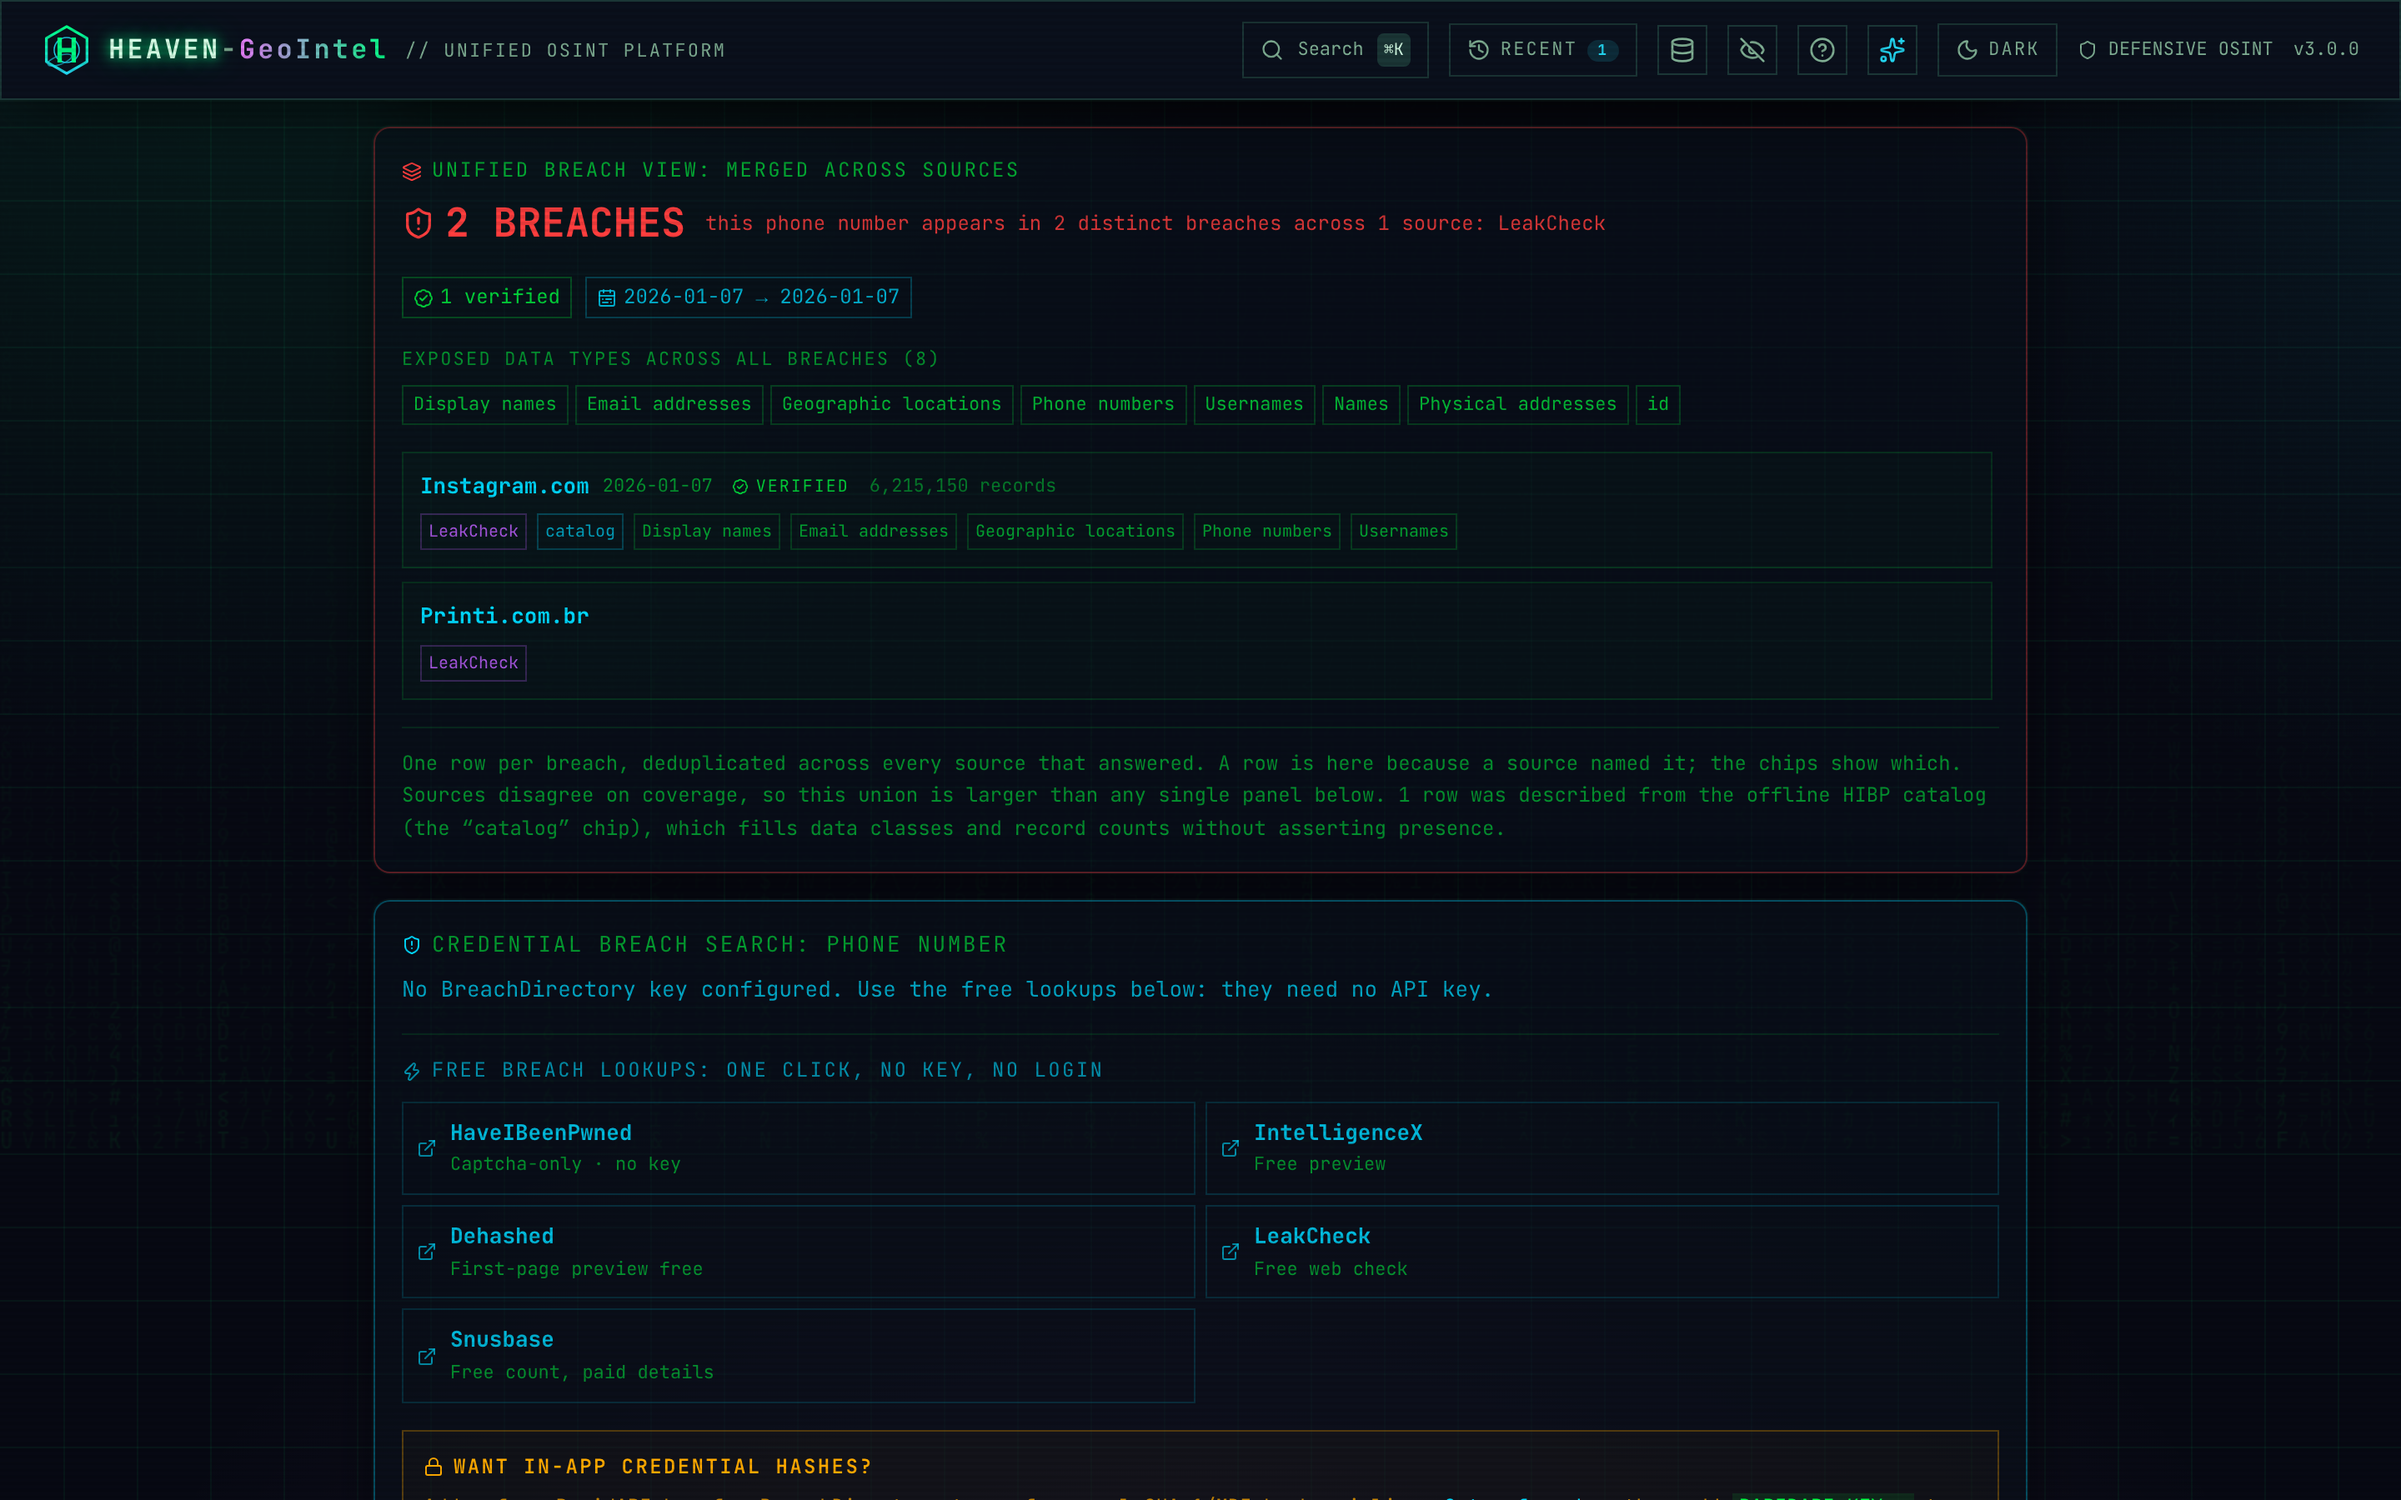
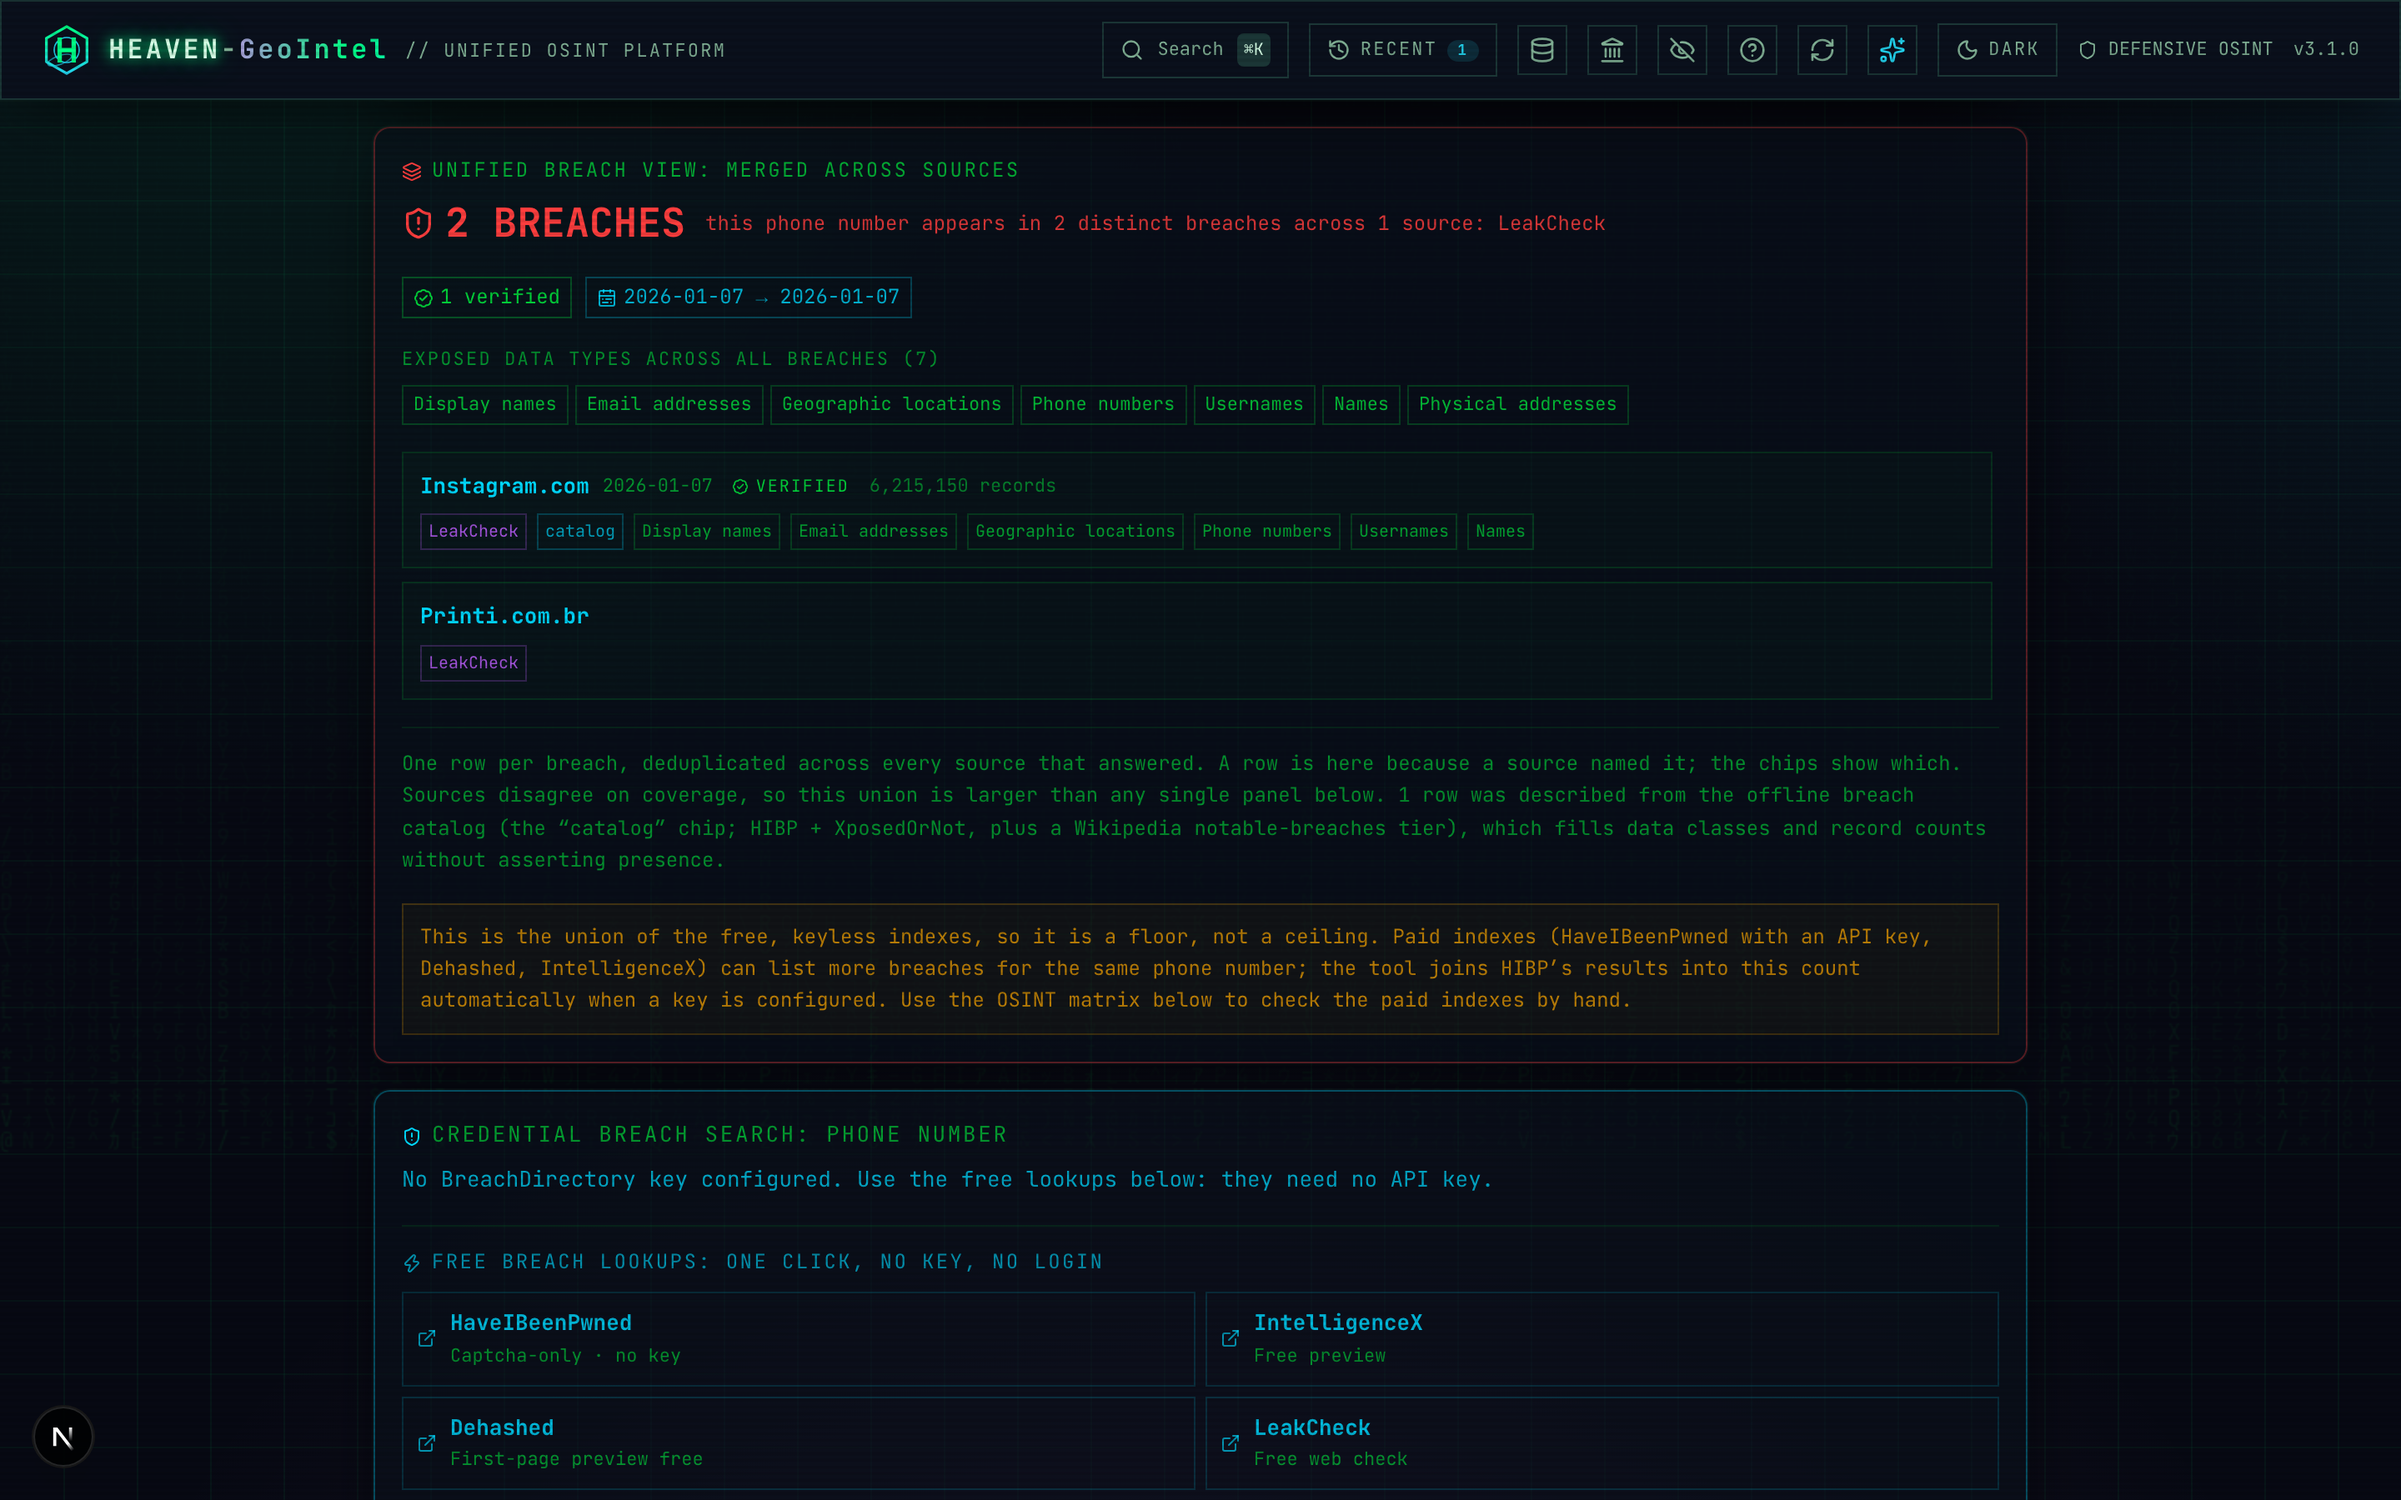
chore: update version to 3.1.0 and modify related documentation
- Updated banner and startup script to reflect version 3.1.0.
- Adjusted comments in capture-screenshots.mjs to include new AI Analysis view.
- Increased PBKDF2 iterations to 600,000 in cryptoLab.ts for enhanced security.
- Updated tests to reflect changes in PBKDF2 iterations.
- Added new screenshot for AI Analysis view.

diff --git a/src/lib/analysis/cryptoLab.ts b/src/lib/analysis/cryptoLab.ts
@@ -191,7 +191,8 @@ async function hmacHex(hash: "SHA-256" | "SHA-512", key: string, text: string): 
 // AES-256-GCM with a PBKDF2-SHA256 passphrase. A fresh 16-byte salt and 12-byte
 // IV each time, packed salt||iv||ciphertext and Base64'd. Iterations are fixed,
 // so the token is self-describing enough to decrypt with only the passphrase.
-const PBKDF2_ITERS = 210000;
+// 600k is the OWASP 2023 floor for PBKDF2-HMAC-SHA256.
+const PBKDF2_ITERS = 600000;
 
 async function deriveAesKey(passphrase: string, salt: Bytes, usage: "encrypt" | "decrypt"): Promise<CryptoKey> {
   const base = await crypto.subtle.importKey("raw", utf8Encode(passphrase), "PBKDF2", false, ["deriveKey"]);
@@ -438,7 +439,7 @@ const IMPLS: Impl[] = [
   // ENCRYPT — reversible, keyed, real
   { meta: { id: "aes-gcm", label: "AES-256-GCM", category: "encrypt", key: "required", keyLabel: "Passphrase", blurb: "Authenticated AES with a PBKDF2 passphrase." },
     forward: (t, k) => aesGcmEncrypt(k, t), inverse: (t, k) => aesGcmDecrypt(k, t),
-    note: "AES-256-GCM · PBKDF2-SHA256 (210k) · authenticated. A wrong passphrase fails; it never returns garbage." },
+    note: "AES-256-GCM · PBKDF2-SHA256 (600k) · authenticated. A wrong passphrase fails; it never returns garbage." },
 ];
 
 const IMPL_BY_ID = new Map(IMPLS.map((impl) => [impl.meta.id, impl]));

diff --git a/tests/cryptoWorkbench.test.tsx b/tests/cryptoWorkbench.test.tsx
@@ -93,7 +93,7 @@ describe("<CryptoWorkbench> keyed algorithms", () => {
     type("Input text", "top secret paragraph");
     type(/Passphrase/, "pw");
     await clickRun();
-    // PBKDF2 (210k iterations) settles after the click, so poll for the result.
+    // PBKDF2 (600k iterations) settles after the click, so poll for the result.
     // Match the note text specifically (the algorithm button also says AES-256-GCM).
     await waitFor(() => expect(screen.getByText(/PBKDF2-SHA256/)).toBeTruthy());
     const token = (screen.getByLabelText("Output") as HTMLTextAreaElement).value;

diff --git a/src/lib/version.ts b/src/lib/version.ts
@@ -26,7 +26,7 @@
 // SECURITY.md, where "3.0.x" is the claim being made.
 
 /** Full semver, as published. Matches `version` in package.json. */
-export const APP_VERSION = "3.0.0";
+export const APP_VERSION = "3.1.0";
 
 /**
  * `major.minor` — the release *branch*, not a build.

diff --git a/README.md b/README.md
@@ -1,3 +1,5 @@
+# 🛰 HEAVEN-GeoIntel · Unified OSINT Platform
+
 <p align="center">
   <picture>
     <source media="(prefers-color-scheme: light)" srcset="public/brand/poster-light.svg"/>
@@ -19,7 +21,7 @@
 <div align="center">
 
   <p>
-    <img src="https://img.shields.io/badge/Version-3.0.0-00FF85?style=for-the-badge&logo=semanticrelease&logoColor=black" alt="Version"/>
+    <img src="https://img.shields.io/badge/Version-3.1.0-00FF85?style=for-the-badge&logo=semanticrelease&logoColor=black" alt="Version"/>
     <img src="https://img.shields.io/badge/Node.js-20.9+-FFAA00?style=for-the-badge&logo=nodedotjs&logoColor=black" alt="Node.js"/>
     <img src="https://img.shields.io/badge/Framework-Next.js_16-BF5FFF?style=for-the-badge&logo=nextdotjs&logoColor=white" alt="Next.js"/>
     <img src="https://img.shields.io/badge/Language-TypeScript-00D9D9?style=for-the-badge&logo=typescript&logoColor=black" alt="TypeScript"/>
@@ -43,8 +45,9 @@
   </p>
 
   <p>
-    <img src="https://img.shields.io/github/stars/nishu2402/HEAVEN-GeoIntel?style=social" alt="Stars"/>
-    <img src="https://img.shields.io/github/forks/nishu2402/HEAVEN-GeoIntel?style=social" alt="Forks"/>
+    <a href="https://github.com/nishu2402/HEAVEN-GeoIntel/stargazers"><img src="https://img.shields.io/github/stars/nishu2402/HEAVEN-GeoIntel?style=flat-square&logo=github&logoColor=black&color=00FF85&label=Star" alt="Stars"/></a>
+    <a href="https://github.com/nishu2402/HEAVEN-GeoIntel/network/members"><img src="https://img.shields.io/github/forks/nishu2402/HEAVEN-GeoIntel?style=flat-square&logo=git&logoColor=black&color=22D3EE&label=Fork" alt="Forks"/></a>
+    <a href="https://github.com/nishu2402/HEAVEN-GeoIntel/issues/new"><img src="https://img.shields.io/badge/Report_a_bug-open_an_issue-BF5FFF?style=flat-square&logo=github&logoColor=white" alt="Report a bug"/></a>
   </p>
 
 </div>
@@ -112,6 +115,12 @@
     <td width="50%" align="center" valign="top">
       <img src="./docs/screenshots/bulk-mode.png" alt="Bulk mode scoring a batch of phone numbers offline" width="100%"/>
       <br/><sub><b>Bulk mode.</b> Paste up to twenty-five numbers, score them offline in one pass, then export the table.</sub>
+    </td>
+  </tr>
+  <tr>
+    <td colspan="2" align="center" valign="top">
+      <img src="./docs/screenshots/ai-analysis.png" alt="AI Analysis panel: an explainable risk score broken into contributing factors and a narrative, with the optional local AI Analyst below it" width="72%"/>
+      <br/><sub><b>AI Analysis.</b> An explainable, grounded risk read-out for every finished lookup, with the score broken into the factors that produced it. Below it sits an optional, opt-in AI Analyst that turns the same evidence into a short brief and flags anything the model writes that the evidence did not support.</sub>
     </td>
   </tr>
 </table>
@@ -394,12 +403,12 @@ docker compose up -d
 open http://localhost:3000          # macOS (Linux: xdg-open, Windows: start)
 
 # Plain Docker (no compose)
-docker build -t heaven-geointel:3.0.0 .
-docker run --rm -p 127.0.0.1:3000:3000 heaven-geointel:3.0.0
+docker build -t heaven-geointel:3.1.0 .
+docker run --rm -p 127.0.0.1:3000:3000 heaven-geointel:3.1.0
 
 # …with API keys (omit --env-file entirely if you have no .env.local;
 # docker run fails on a missing env file, it does not skip it)
-docker run --rm -p 127.0.0.1:3000:3000 --env-file .env.local heaven-geointel:3.0.0
+docker run --rm -p 127.0.0.1:3000:3000 --env-file .env.local heaven-geointel:3.1.0
 ```
 
 <div align="center">
@@ -1157,7 +1166,7 @@ the same numbers as this page:
 │            Search It.  Enrich It.  Pivot It.  Report It.             │
 │                                                                      │
 │         7 identifiers · 11 modes · 20/29 sources need no key         │
-│            v3.0.0  ·  Lookup -> Enrich -> Pivot -> Report            │
+│            v3.1.0  ·  Lookup -> Enrich -> Pivot -> Report            │
 │                                                                      │
 │           Owned & Developed by  Nisarg Chasmawala (Shroff)           │
 ╰──────────────────────────────────────────────────────────────────────╯

diff --git a/CHANGELOG.md b/CHANGELOG.md
@@ -7,6 +7,8 @@ and this project adheres to [Semantic Versioning](https://semver.org/).
 
 ## [Unreleased]
 
+## [3.1.0] — 2026-09-08
+
 ### Security
 
 - **Hardened the file-metadata reader against hostile uploads.** The in-browser
@@ -224,9 +226,27 @@ and this project adheres to [Semantic Versioning](https://semver.org/).
   each label by lowercasing it and letting CSS re-capitalize the first letter,
   which is right for an ordinary word but turned the "IP" acronym into "Ip". Mode
   labels now render in their own proper case, so an acronym stays whole.
+- **The weekly outbound-link check reports real link rot again.** The checker
+  filled only one of the two username placeholders the source uses, so several
+  hundred live sites were probed with a literal `{account}` still in the URL and
+  came back looking dead. It now fills both placeholders and re-checks a failure
+  with a second request before flagging it, so the report shows links that have
+  actually stopped resolving instead of a datacenter being throttled on the first
+  try.
 
 ### Security
 
+- **The AI Analyst API key is no longer written to the browser.** The optional
+  cloud key you paste is held only in memory for the current tab. It is never
+  saved to `localStorage` or any other on-disk store, so the secret does not sit
+  at rest where another script, an extension, or the next person on a shared
+  machine could read it. It still travels only in the request you trigger, to
+  your own relay, which forwards it and keeps no copy.
+- **More code-scanning cleanup.** The exported HTML report now escapes the double
+  quote inside a link's `href`, so a value can never break out of the attribute.
+  An offline breach-catalog script shed a slow regular expression and a tag strip
+  that a single pass could defeat, and two test helpers were tightened, clearing
+  the remaining static-analysis findings.
 - **Markdown report escaping now escapes the backslash before the pipe.** A cell
   value that held a backslash right before a pipe could otherwise reopen a live
   table delimiter, because the doubled backslash consumed the escape. Backslashes

diff --git a/SECURITY.md b/SECURITY.md
@@ -4,6 +4,7 @@
 
 | Version | Supported          |
 | ------- | ------------------ |
+| 3.1.x   | :white_check_mark: |
 | 3.0.x   | :white_check_mark: |
 | 2.x     | :x:                |
 | 1.3.x   | :x:                |
